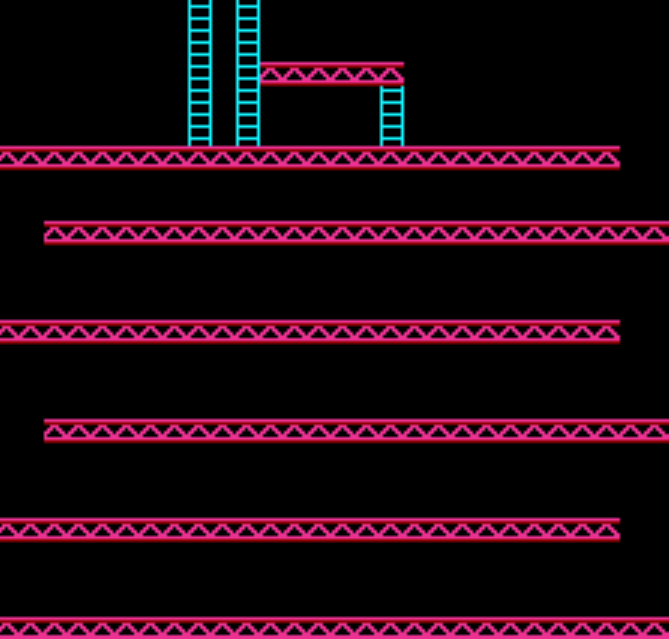
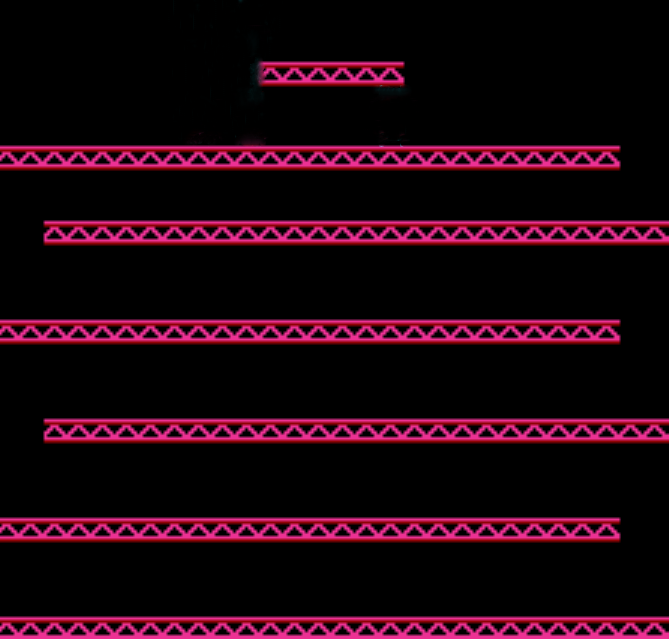
day3 update obstacle,bg,game

Changed region(s): [[0.2691, 0.0, 0.4185, 0.2379], [0.568, 0.1189, 0.6278, 0.2379]]

diff --git a/js/game.js b/js/game.js
@@ -14,7 +14,6 @@ const Game = {
 	},
 
     reset: function () {
-		console.log('RESET')
 
         this.background = new Background(this.ctx, this.canvasW, this.canvasH)
 
@@ -36,7 +35,20 @@ const Game = {
 
         ]
 
-        this.barril = new Barril(this.ctx,this.canvasW,this.canvasH)
+        this.escaleras = [
+            new Escaleras(this.ctx,this.canvasW*0.28125,0,this.canvasW * 0.035807,this.canvasH*0.229),
+            new Escaleras(this.ctx,this.canvasW*0.35286,0,this.canvasW * 0.035807,this.canvasH*0.229),            
+            new Escaleras(this.ctx,this.canvasW*0.568359,this.canvasH*0.095,this.canvasW * 0.035807,this.canvasH*0.134),
+            new Escaleras(this.ctx,this.canvasW*0.828776,this.canvasH*0.229,this.canvasW * 0.035807,this.canvasH*0.1145),
+            new Escaleras(this.ctx,this.canvasW*0.091145,this.canvasH*0.3435,this.canvasW * 0.035807,this.canvasH*0.1535),
+            new Escaleras(this.ctx,this.canvasW*0.885416,this.canvasH*0.497,this.canvasW * 0.035807,this.canvasH*0.1582),
+            new Escaleras(this.ctx,this.canvasW*0.123687,this.canvasH*0.6552,this.canvasW * 0.035807,this.canvasH*0.1565),
+            new Escaleras(this.ctx,this.canvasW*0.885416,this.canvasH*0.8117,this.canvasW * 0.035807,this.canvasH*0.1527)
+        ]
+        
+        // w 1536 h 786
+
+        this.barril = []
 		
 		this.start()
 	},
@@ -56,39 +68,53 @@ const Game = {
             this.drawAll()
             this.moveAll()
 
-			if (this.frameCounter % 50 === 0) {
-				this.barril.draw(this.frameCounter)
+			if (this.frameCounter % 100 === 0) {
+				this.generateBarril()
 			}
             
 		}, 1000 / this.fps)
 	},
 
     drawAll(){
-        this.background.draw()
+        this.background.draw(this.frameCounter)
         this.niveles.forEach((nivel) => {
             nivel.draw()
         })
-        this.barril.draw(this.frameCounter)
-        if (
-            !this.niveles.some((nivel) => {
-                const isCollision =
-                    this.barril.y + this.barril.h >= nivel.y &&
-                    this.barril.y < nivel.y + nivel.h &&
-                    this.barril.x + this.barril.w > nivel.x &&
-                    this.barril.x < nivel.x + nivel.w
-    
-                if (isCollision) {
-                    this.barril.stop()
-                    this.barril.y = nivel.y - this.barril.h
-                }
-    
-                return isCollision
-            })
-        )
-            this.barril.fall()
+        this.escaleras.forEach((escalera) => {
+            escalera.draw()
+        })
+        this.barril.forEach((barril) => {
+            barril.draw(this.frameCounter)
+            if (
+                !this.niveles.some((nivel) => {
+                    const isCollision =
+                        barril.y + barril.h >= nivel.y &&
+                        barril.y < nivel.y + nivel.h &&
+                        barril.x + barril.w > nivel.x &&
+                        barril.x < nivel.x + nivel.w
+        
+                    if (isCollision) {
+                        barril.stop()
+                        barril.y = nivel.y - barril.h
+                    }
+        
+                    return isCollision
+                })
+            )
+            barril.fall()
+            if(barril.y > this.canvasH + 200) this.barril.shift(0)
+        })
     },
 
     moveAll(){
-        this.barril.move()
-    }
+        this.barril.forEach((barril) => {
+            barril.move()
+        })
+    },
+
+    generateBarril: function () {
+		this.barril.push(
+			new Barril(this.ctx,this.canvasW,this.canvasH)
+		)
+	},
 }

diff --git a/js/barril.js b/js/barril.js
@@ -1,12 +1,16 @@
 
 
 class Barril{
-    constructor(ctx){
+    constructor(ctx,canvasW,canvasH){
         this.ctx = ctx
-        this.x = 100  
-        this.y = 140
+        this.canvasW = canvasW
+        this.canvasH = canvasH
+        this.x = this.canvasH/6  
+        this.y = this.canvasH * 0.15        
         this.w = 36
         this.h = 24
+        this.dx = 5
+        this.dy = 1
 
         this.img = new Image()
 
@@ -15,7 +19,7 @@ class Barril{
         this.img.frameIndex = 0
 		this.img.frames = 4
 
-        this.vx = -2
+        this.vx = -4
 
         this.fall()
     }
@@ -35,6 +39,16 @@ class Barril{
         this.animateSprite(frameCounter)
     }
 
+    animateSprite(frameCounter) {
+		if (frameCounter % 6 === 0) {
+			this.img.frameIndex++
+
+			if (this.img.frameIndex >= this.img.frames) {
+				this.img.frameIndex = 0
+			}
+		}
+	}
+
     stop() {
 		if (this.falling) this.vx *= -1
 
@@ -50,23 +64,13 @@ class Barril{
 	}
 
     move() {
-		const gravity = 0.4
+		const gravity = 1.3
 
 		if (this.falling) {
 			this.vy += gravity
 			this.y += this.vy
 		} else {
 			this.x += this.vx
-		}
-	}
-    
-    animateSprite(frameCounter) {
-		if (frameCounter % 6 === 0) {
-			this.img.frameIndex++
-
-			if (this.img.frameIndex >= this.img.frames) {
-				this.img.frameIndex = 0
-			}
 		}
 	}
 }

diff --git a/js/background.js b/js/background.js
@@ -6,14 +6,48 @@ class Background {
         this.canvasH = canvasH
 
         this.img = new Image()
-
 		this.img.src = 'assets/nivel1.png'
-
         this.imgW = this.img.width
+
+        this.barriles = new Image()
+        this.barriles.src = 'assets/barriles_salida.png'
+
+        this.dk = new Image()
+        this.dk.src = 'assets/dk_sprite2.png'
+        this.dk.frameIndex = 0
+        this.dk.frames = 4
+
     }
 
-    draw(){
+    draw(frameCounter){
         this.ctx.drawImage(this.img,0,0,this.canvasW,this.canvasH)
+        this.ctx.drawImage(this.barriles,0,this.canvasW * 0.065,this.canvasW/10,this.canvasH/10)
+        this.drawDK(frameCounter)
     }
+
+    drawDK(frameCounter){
+        this.ctx.drawImage(
+            this.dk,
+            this.dk.frameIndex * (this.dk.width / this.dk.frames),
+            0,
+            this.dk.width / this.dk.frames,
+			this.dk.height,
+            this.canvasH/6,
+			this.canvasW * 0.033,
+			this.canvasW/10,
+			this.canvasH/5
+        )
+        this.animateSprite(frameCounter)
+    }
+
+    animateSprite(frameCounter) {
+		if (frameCounter % 50 === 0) {
+			this.dk.frameIndex++
+
+			if (this.dk.frameIndex >= this.dk.frames) {
+				this.dk.frameIndex = 0
+			}
+		}
+	}
 
 }

diff --git a/js/escaleras.js b/js/escaleras.js
@@ -1,0 +1,16 @@
+class Escaleras{
+    constructor(ctx,x,y,w,h){
+        this.ctx = ctx
+        this.x = x
+        this.y = y
+        this.w = w
+        this.h = h
+
+        this.img = new Image()
+
+        this.img.src = 'assets/escalera.png'
+    }
+    draw(){
+        this.ctx.drawImage(this.img,this.x,this.y,this.w,this.h)
+    }
+}

diff --git a/index.html b/index.html
@@ -21,6 +21,7 @@
     <script src="js/barril.js"></script>
     <script src="js/game.js"></script>
     <script src="js/niveles.js"></script>
+    <script src="js/escaleras.js"></script>
     <script src="index.js"></script>
 </body>
 </html>
